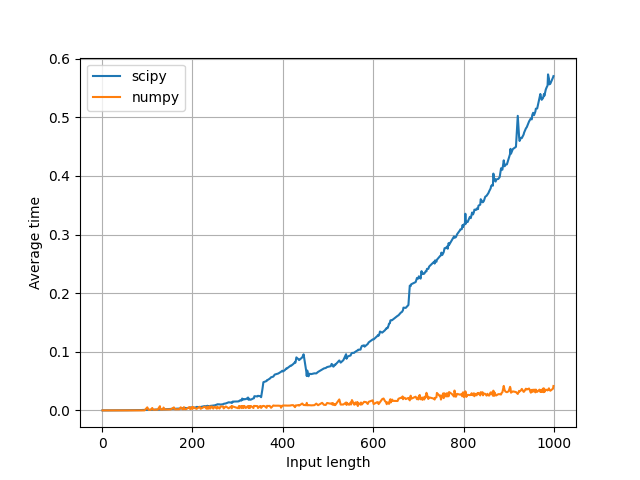
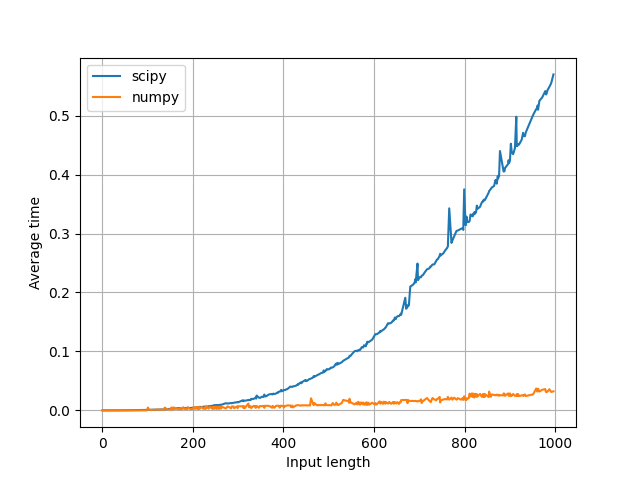
added smoothing

diff --git a/compare.py b/compare.py
@@ -43,18 +43,39 @@ def solver(a, b):
 
 def plot_performance(size, rep):
     sizes = sorted(set(np.random.randint(1, 1001, size)))
-    plt.plot(sizes,
-             [np.mean(list(measure_time(solver, np.random.randn(i, i), np.random.randn(i)) for _ in range(rep))) for i
-              in sizes], label="scipy")
-    plt.plot(sizes, [
+    scipy_output = [np.mean(list(measure_time(solver, np.random.randn(i, i), np.random.randn(i)) for _ in range(rep)))
+                    for i in sizes]
+    numpy_output = [
         np.mean(list(measure_time(np.linalg.solve, np.random.randn(i, i), np.random.randn(i)) for _ in range(rep))) for
-        i in sizes],
-             label="numpy")
+        i in sizes]
+    plt.plot(sizes, scipy_output, label="scipy")
+    plt.plot(sizes, numpy_output, label="numpy")
     plt.xlabel("Input length")
     plt.ylabel("Average time")
     plt.legend()
     plt.grid(True)
     plt.savefig("comparison.png")
+
+    scipy_func = np.poly1d(np.polyfit(sizes, scipy_output, 2))
+    plt.plot(sizes, scipy_func(sizes), label="scipy polyfit", linewidth=2)
+
+    numpy_func = np.poly1d(np.polyfit(sizes, numpy_output, 2))
+    plt.plot(sizes, numpy_func(sizes), label="numpy polyfit", linewidth=2)
+
+    plt.legend()
+
+    plt.savefig("comparison polyfit overlay.png")
+
+    plt.cla()
+
+    plt.plot(sizes, scipy_func(sizes), label="scipy polyfit", linewidth=2)
+    plt.plot(sizes, numpy_func(sizes), label="numpy polyfit", linewidth=2)
+    plt.xlabel("Input length")
+    plt.ylabel("Average time")
+    plt.legend()
+    plt.grid(True)
+
+    plt.savefig("comparison polyfit.png")
 
 
 if __name__ == '__main__':
